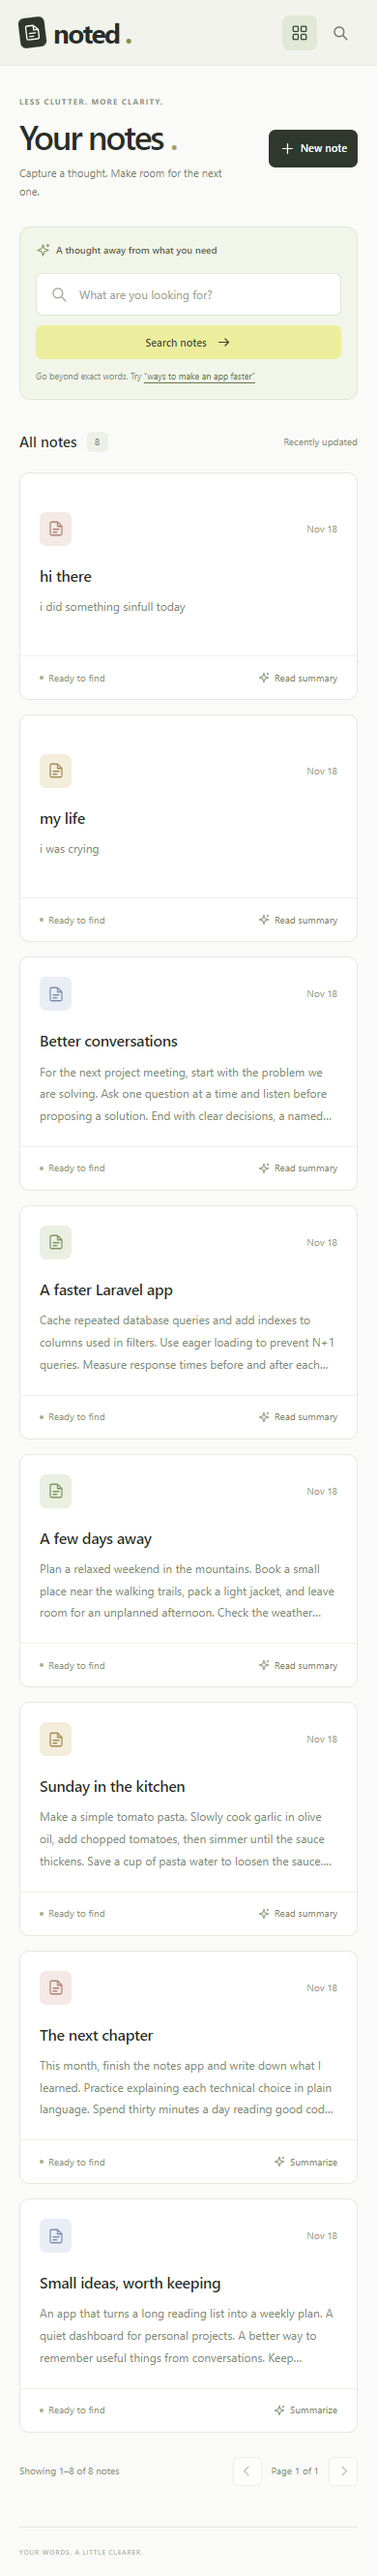
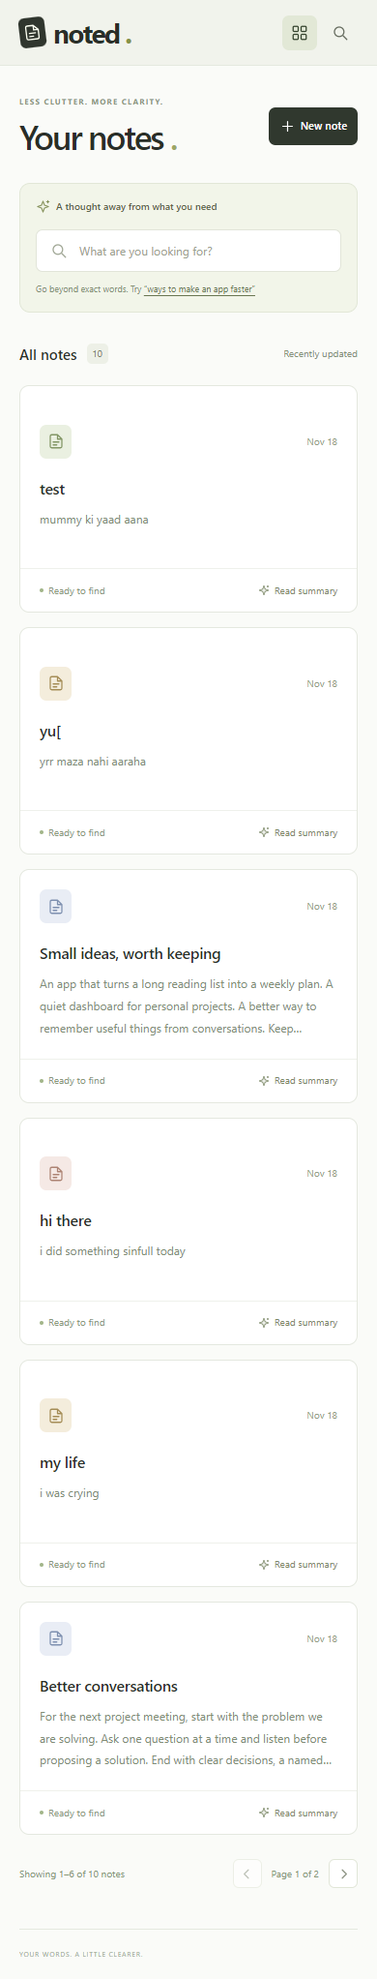
Simplify notes frontend and add search as you type

diff --git a/resources/js/app.js b/resources/js/app.js
@@ -19,6 +19,7 @@ let deleting = false;
 let processingAi = false;
 let listRequestNumber = 0;
 let notificationTimer;
+let searchTimer;
 
 async function apiRequest(path, options = {}) {
     let response;
@@ -91,7 +92,7 @@ function shortDate(value) {
 async function loadNotes(page = 1) {
     const requestNumber = ++listRequestNumber;
     const query = activeQuery;
-    const parameters = new URLSearchParams({ page, limit: 9 });
+    const parameters = new URLSearchParams({ page, limit: 6 });
 
     if (query) {
         parameters.set('q', query);
@@ -102,7 +103,6 @@ async function loadNotes(page = 1) {
     notesList.replaceChildren();
     element('empty-state').hidden = true;
     element('pagination').hidden = true;
-    element('search-button').disabled = true;
     showMessage('list-error', '');
 
     try {
@@ -160,7 +160,6 @@ async function loadNotes(page = 1) {
         if (requestNumber === listRequestNumber) {
             element('loading-state').hidden = true;
             notesList.setAttribute('aria-busy', 'false');
-            element('search-button').disabled = false;
         }
     }
 }
@@ -202,10 +201,32 @@ function renderNotes(notes) {
 }
 
 function clearSearch() {
+    clearTimeout(searchTimer);
     activeQuery = '';
     element('search-input').value = '';
     element('clear-search-button').hidden = true;
     loadNotes();
+}
+
+function searchNotes() {
+    clearTimeout(searchTimer);
+    activeQuery = element('search-input').value.trim();
+    loadNotes();
+}
+
+function scheduleSearch() {
+    clearTimeout(searchTimer);
+    const query = element('search-input').value.trim();
+    element('clear-search-button').hidden = query.length === 0;
+
+    if (!query) {
+        clearSearch();
+        return;
+    }
+
+    // Stop an older response from replacing results while the user is typing.
+    listRequestNumber++;
+    searchTimer = setTimeout(searchNotes, 500);
 }
 
 function openEditor(note = null) {
@@ -265,6 +286,7 @@ async function saveNote(event) {
         });
 
         editorDialog.close();
+        clearTimeout(searchTimer);
         activeQuery = '';
         element('search-input').value = '';
         element('clear-search-button').hidden = true;
@@ -285,6 +307,7 @@ async function saveNote(event) {
 }
 
 function renderReader() {
+    const hasSummary = Boolean(selectedNote.summary);
     element('reader-title').textContent = selectedNote.title;
     element('reader-content').textContent = selectedNote.content;
     element('reader-date').textContent =
@@ -294,13 +317,15 @@ function renderReader() {
             day: 'numeric',
             year: 'numeric',
         }).format(new Date(selectedNote.updated_at));
-    element('reader-summary').textContent =
-        selectedNote.summary || 'Turn this note into a few clear sentences.';
-    element('generate-summary-button').hidden = Boolean(selectedNote.summary);
+    element('summary-panel').classList.toggle('summary-empty', !hasSummary);
+    element('summary-panel-heading').hidden = !hasSummary;
+    element('reader-summary').textContent = selectedNote.summary || '';
+    element('reader-summary').hidden = !hasSummary;
+    element('generate-summary-button').hidden = hasSummary;
     element('embedding-retry-panel').hidden = selectedNote.search_ready;
 }
 
-async function openNote(id, summarize = false) {
+async function openNote(id) {
     try {
         const result = await apiRequest('/api/notes/' + id);
         selectedNote = result.data;
@@ -309,10 +334,6 @@ async function openNote(id, summarize = false) {
 
         if (!readerDialog.open) {
             readerDialog.showModal();
-        }
-
-        if (summarize && !selectedNote.summary) {
-            await processAi('summary');
         }
     } catch (error) {
         notify(error.message, true);
@@ -404,19 +425,15 @@ element('clear-search-button').addEventListener('click', clearSearch);
 element('focus-search-button').addEventListener('click', () =>
     element('search-input').focus(),
 );
-element('search-input').addEventListener('input', () => {
-    element('clear-search-button').hidden =
-        element('search-input').value.length === 0;
-});
+element('search-input').addEventListener('input', scheduleSearch);
 element('search-form').addEventListener('submit', (event) => {
     event.preventDefault();
-    activeQuery = element('search-input').value.trim();
-    loadNotes();
+    searchNotes();
 });
 element('search-example-button').addEventListener('click', () => {
     element('search-input').value = 'ways to make an app faster';
-    element('clear-search-button').hidden = false;
     element('search-input').focus();
+    scheduleSearch();
 });
 element('previous-page-button').addEventListener('click', () => {
     if (currentPage > 1) loadNotes(currentPage - 1);
@@ -428,10 +445,7 @@ notesList.addEventListener('click', (event) => {
     const button = event.target.closest('button[data-action]');
 
     if (button && !processingAi) {
-        openNote(
-            button.closest('.note-card').dataset.id,
-            button.dataset.action === 'summary',
-        );
+        openNote(button.closest('.note-card').dataset.id);
     }
 });
 

diff --git a/resources/css/app.css b/resources/css/app.css
@@ -162,52 +162,6 @@ textarea {
     font-size: 11px;
     border-radius: 5px;
 }
-.sidebar-tip {
-    margin-top: auto;
-    padding: 22px 17px 18px;
-    background: #e9eddc;
-    border: 1px solid #dde3cc;
-    border-radius: 9px;
-}
-.tip-icon {
-    display: inline-flex;
-    padding: 7px;
-    margin-bottom: 12px;
-    background: #dce3c7;
-    color: #647140;
-    border-radius: 7px;
-}
-.tip-icon .icon {
-    width: 19px;
-    height: 19px;
-}
-.sidebar-tip h2 {
-    font-size: 15px;
-    font-weight: 600;
-    line-height: 1.5;
-    margin: 0 0 10px;
-    letter-spacing: -0.25px;
-}
-.sidebar-tip p {
-    margin: 0;
-    color: #7a826c;
-    font-size: 12px;
-    line-height: 1.8;
-}
-.sidebar-footer {
-    display: flex;
-    align-items: center;
-    gap: 8px;
-    padding-top: 28px;
-    color: #818877;
-    font-size: 10px;
-}
-.status-dot {
-    width: 6px;
-    height: 6px;
-    border-radius: 50%;
-    background: #84976a;
-}
 
 /* Main page */
 .workspace {
@@ -873,6 +827,14 @@ h1 span {
     border: 1px solid #e4e9d6;
     border-radius: 9px;
 }
+.summary-panel.summary-empty {
+    padding: 0;
+    border: none;
+    background: transparent;
+}
+.summary-panel.summary-empty > .button {
+    margin-top: 0;
+}
 .summary-panel-heading {
     display: flex;
     justify-content: space-between;
@@ -1029,9 +991,7 @@ h1 span {
     .brand > span:last-child,
     .brand-caption,
     .nav-label,
-    .nav-button > span,
-    .sidebar-tip,
-    .sidebar-footer {
+    .nav-button > span {
         display: none;
     }
     .navigation {

diff --git a/resources/views/notes/index.blade.php b/resources/views/notes/index.blade.php
@@ -48,25 +48,10 @@
                     <span>Search notes</span>
                 </button>
             </nav>
-            <div class="sidebar-tip">
-                <span class="tip-icon"><x-icon name="sparkles" /></span>
-                <h2>
-                    Find the thought.
-                    <br />
-                    Not just the words.
-                </h2>
-                <p>
-                    Describe what you remember. Search will find notes with a
-                    similar meaning.
-                </p>
-            </div>
-            <div class="sidebar-footer">
-                <span class="status-dot"></span>
-                A calmer place to think
-            </div>
         </aside>
 
         <div class="workspace">
+            {{--
             <header class="topbar">
                 <div class="breadcrumb">
                     <x-icon name="book" />
@@ -76,6 +61,7 @@
                 </div>
                 <span class="topbar-caption">Good ideas deserve a place.</span>
             </header>
+            --}}
             <main id="main-content" class="main-content">
                 <section class="page-heading">
                     <div>
@@ -84,9 +70,6 @@
                             Your notes
                             <span>.</span>
                         </h1>
-                        <p class="page-description">
-                            Capture a thought. Make room for the next one.
-                        </p>
                     </div>
                     <button
                         id="new-note-button"
@@ -101,7 +84,6 @@
                     <div class="search-heading">
                         <x-icon name="sparkles" />
                         <span>A thought away from what you need</span>
-                        <span class="small-label">SEMANTIC SEARCH</span>
                     </div>
                     <form id="search-form" class="search-form" role="search">
                         <div class="search-input-wrap">
@@ -115,6 +97,7 @@
                                 maxlength="500"
                                 placeholder="What are you looking for?"
                                 autocomplete="off"
+                                aria-controls="notes-list"
                             />
                             <button
                                 id="clear-search-button"
@@ -126,14 +109,6 @@
                                 <x-icon name="close" />
                             </button>
                         </div>
-                        <button
-                            id="search-button"
-                            class="button button-search"
-                            type="submit"
-                        >
-                            Search notes
-                            <x-icon name="arrow" />
-                        </button>
                     </form>
                     <p class="search-help">
                         Go beyond exact words. Try
@@ -358,19 +333,22 @@
                 <h2 id="reader-title"></h2>
                 <p id="reader-content" class="reader-content"></p>
                 <section
-                    class="summary-panel"
-                    aria-labelledby="summary-heading"
+                    id="summary-panel"
+                    class="summary-panel summary-empty"
+                    aria-label="Note summary"
                 >
-                    <div class="summary-panel-heading">
+                    <div
+                        id="summary-panel-heading"
+                        class="summary-panel-heading"
+                        hidden
+                    >
                         <h3 id="summary-heading">
                             <x-icon name="sparkles" />
                             A little clarity
                         </h3>
                         <span class="small-label">AI SUMMARY</span>
                     </div>
-                    <p id="reader-summary">
-                        Turn this note into a few clear sentences.
-                    </p>
+                    <p id="reader-summary" hidden></p>
                     <button
                         id="generate-summary-button"
                         class="button button-secondary"

diff --git a/README.md b/README.md
@@ -109,6 +109,8 @@ Semantic search: query embedding + saved note embeddings -> NoteSearchService
 - `resources/js/app.js`: frontend API calls and UI events.
 - `resources/css/app.css`: page styling and responsive layouts.
 
+The frontend displays six notes per page. Search runs automatically 500 milliseconds after typing stops; pressing Enter also searches immediately. Opening a note or its summary link shows the note first. For a note without a saved summary, the reader shows a **Summarize note** button and makes no AI request until it is clicked.
+
 No additional runtime PHP packages, vector database, queues, or Redis are required. Laravel's existing framework and HTTP client handle the backend.
 
 ## Database schema
@@ -222,7 +224,7 @@ The default similarity threshold is a starting point. Search quality depends on 
 ## Security and scope
 
 - All Google calls run in Laravel. The browser only talks to the local Laravel API.
-- The API key stays in `.env`, which is excluded by the existing `.gitignore`; `.env.example` contains a placeholder.
+- The API key stays server-side in `.env`. This local repository tracks `.env` at the user's explicit request; `.env.example` contains a placeholder.
 - Eloquent binds database values, and inputs pass through Form Requests.
 - Note text and AI output are inserted into the page using `textContent`.
 - The app limits general API requests to 120/minute/IP and AI-related requests to 15/minute/IP.
@@ -267,4 +269,4 @@ Suggested demo: create a note about caching, reload the page to show persistence
 - AI actions require internet access and available Google quota. Existing notes remain usable when Google is unavailable.
 - `npm audit` currently reports an upstream `picomatch` advisory in the existing Vite development dependencies, with no patched version listed. A normal `npm audit fix` does not resolve it. The app does not accept user-supplied glob patterns. See [GHSA-fc5q-39xc-vjpf](https://github.com/advisories/GHSA-fc5q-39xc-vjpf).
 
-Git and Docker setup are intentionally left out as requested.
+Git is initialized locally, including an initial commit with `.env` as requested. No remote is configured. Docker setup is intentionally left out.
